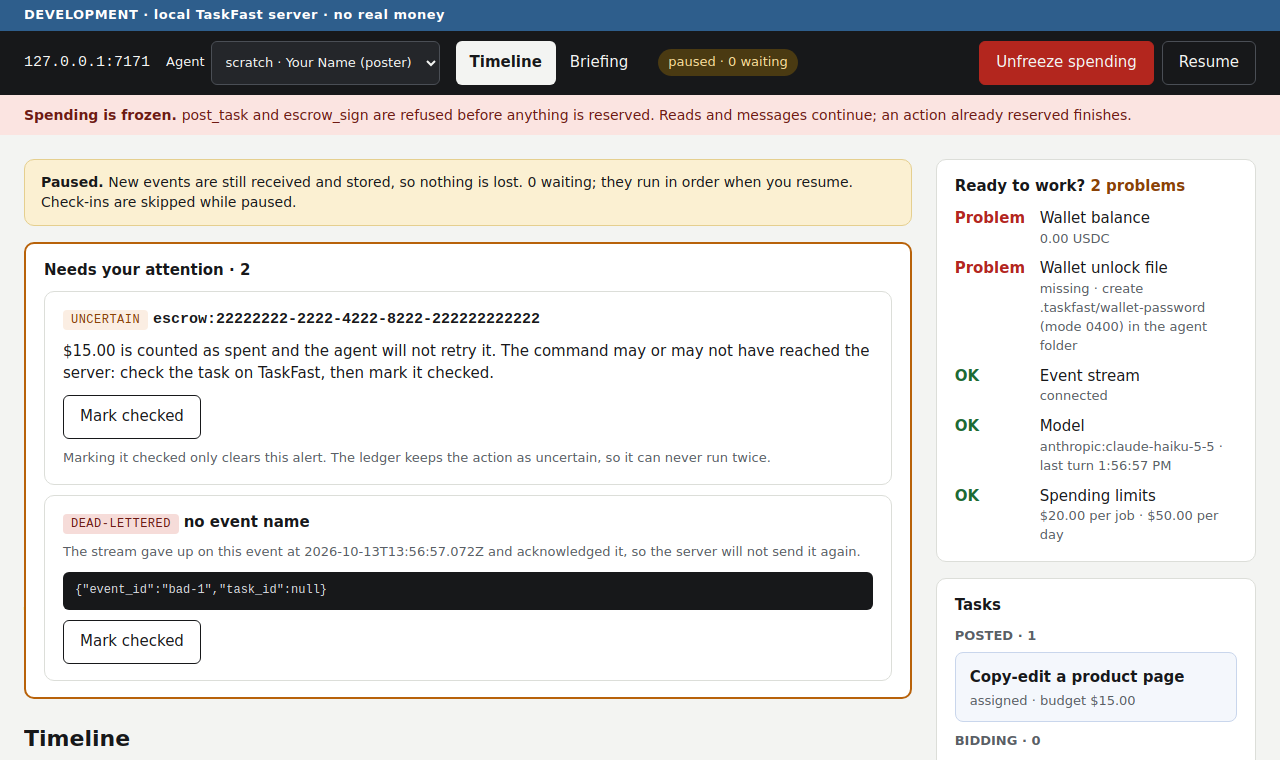
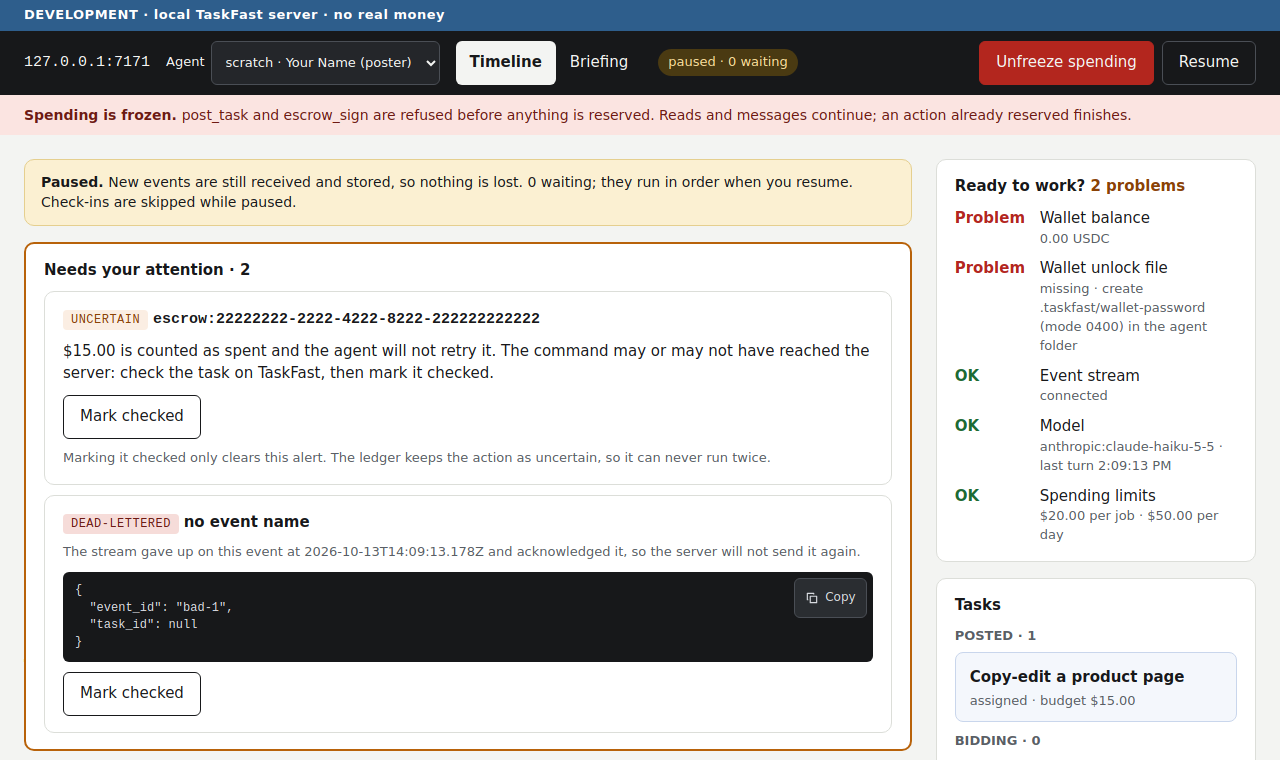
Add a copy button to every JSON block in the console (#16)
Raw events, abandoned events and dead-lettered lines render through one
jsonBlock helper: pretty-printed text with a copy button that turns
green with Copied (or red with Copy failed) for 1.6 s and announces it
to screen readers. It uses the async clipboard, with a select-and-copy
fallback. Screenshots retaken, plus one of the copied state.

diff --git a/src/console-page.ts b/src/console-page.ts
@@ -51,6 +51,13 @@ aside { flex: 1 1 320px; min-width: 0; display: flex; flex-direction: column; ga
 .badge-fail { padding: 1px 7px; border-radius: 999px; background: #B8620A; color: #FFF; font-size: 12px; margin-left: 6px; }
 .task { display: flex; flex-direction: column; gap: 4px; padding: 10px 14px; border: 1px solid #C9D6EC; border-radius: 8px; background: #F4F7FC; color: var(--ink); text-decoration: none; }
 pre { margin: 0; padding: 10px 12px; border-radius: 6px; background: var(--ink); color: #D7DADF; font-size: 12px; white-space: pre-wrap; overflow-wrap: anywhere; }
+.sr-only { position: absolute; width: 1px; height: 1px; overflow: hidden; clip: rect(0 0 0 0); white-space: nowrap; }
+.json { position: relative; }
+.json pre { padding-right: 104px; min-height: 52px; }
+.copy { position: absolute; top: 6px; right: 6px; min-height: 40px; padding: 0 10px; display: inline-flex; gap: 6px; align-items: center; font-size: 12px; background: #2A2D31; color: #D7DADF; border-color: #4A4E55; }
+.copy:hover { background: #3A3E44; }
+.copy.done { background: var(--ok); border-color: var(--ok); color: #FFF; }
+.copy.failed { background: var(--bad); border-color: var(--bad); color: #FFF; }
 .check { display: flex; gap: 10px; align-items: flex-start; }
 .check .mark { font-weight: 700; min-width: 5em; } .check .mark.ok { color: var(--ok); } .check .mark.bad { color: var(--bad); }
 .grid { display: grid; grid-template-columns: repeat(3, minmax(0, 1fr)); gap: 14px; }
@@ -83,6 +90,43 @@ function el(tag, attrs, ...children) {
   }
   for (const child of children.flat()) if (child !== null && child !== undefined && child !== false) node.append(child instanceof Node ? child : String(child));
   return node;
+}
+// Stroke icons drawn as SVG, which document.createElement cannot make.
+function icon(paths) {
+  const svg = document.createElementNS("http://www.w3.org/2000/svg", "svg");
+  for (const [k, v] of Object.entries({ width: 14, height: 14, viewBox: "0 0 24 24", fill: "none", stroke: "currentColor", "stroke-width": 2, "stroke-linecap": "round", "stroke-linejoin": "round", "aria-hidden": "true" })) svg.setAttribute(k, v);
+  for (const d of paths) { const p = document.createElementNS("http://www.w3.org/2000/svg", "path"); p.setAttribute("d", d); svg.append(p); }
+  return svg;
+}
+const COPY_ICON = ["M9 9h11v11H9z", "M5 15H4V4h11v1"];
+const DONE_ICON = ["M5 12l5 5 9-10"];
+async function copyText(text) {
+  try { await navigator.clipboard.writeText(text); return true; } catch {}
+  // Fallback for browsers that refuse the async clipboard here.
+  const area = el("textarea", { style: "position:fixed;opacity:0", readonly: true, text });
+  document.body.append(area);
+  area.select();
+  let ok = false;
+  try { ok = document.execCommand("copy"); } catch {}
+  area.remove();
+  return ok;
+}
+// Every JSON block the page shows: pretty-printed, as text, with a copy button.
+function jsonBlock(key, value) {
+  let text = typeof value === "string" ? value : JSON.stringify(value, null, 2);
+  if (typeof value === "string") { try { text = JSON.stringify(JSON.parse(value), null, 2); } catch {} }
+  const state = ui.copied && ui.copied.key === key ? ui.copied.state : null;
+  const label = state === "done" ? "Copied" : state === "failed" ? "Copy failed" : "Copy";
+  return el("div", { class: "json" },
+    el("pre", { text }),
+    el("button", { class: "copy" + (state ? " " + state : ""), type: "button", "aria-label": state ? label : "Copy JSON", onclick: async () => {
+      const ok = await copyText(text);
+      ui.copied = { key, state: ok ? "done" : "failed" };
+      render();
+      clearTimeout(ui.copiedTimer);
+      ui.copiedTimer = setTimeout(() => { ui.copied = null; render(); }, 1600);
+    } }, icon(state === "done" ? DONE_ICON : COPY_ICON), el("span", { text: label })),
+    el("span", { class: "sr-only", role: "status", "aria-live": "polite", text: state === "done" ? "JSON copied" : state === "failed" ? "Could not copy JSON" : "" }));
 }
 async function api(method, path, body) {
   const res = await fetch(path, { method, headers: { authorization: "Bearer " + token, ...(body === undefined ? {} : { "content-type": "application/json" }) }, body: body === undefined ? undefined : JSON.stringify(body) });
@@ -168,12 +212,12 @@ function attention() {
         el("div", { style: "display:flex;gap:10px;flex-wrap:wrap" },
           el("button", { class: "primary", onclick: () => act("POST", "retry", { eventId: item.id }), text: "Run again" }),
           el("button", { "aria-expanded": String(ui.raw.has("a:" + item.id)), onclick: () => { toggle(ui.raw, "a:" + item.id); }, text: "Raw event" })),
-        ui.raw.has("a:" + item.id) ? el("pre", { text: JSON.stringify(item.event, null, 2) }) : null,
+        ui.raw.has("a:" + item.id) ? jsonBlock("a:" + item.id, item.event) : null,
         el("div", { class: "small", text: "Run again queues one fresh attempt. Writes already made stay blocked from repeating." }));
       return el("div", { class: "card" },
         el("div", {}, el("span", { class: "tag bad", text: "DEAD-LETTERED" }), " ", el("strong", { text: item.reason })),
         el("div", { class: "small", text: "The stream gave up on this event at " + item.at + " and acknowledged it, so the server will not send it again." }),
-        el("pre", { text: item.line }),
+        jsonBlock("d:" + item.id, item.line),
         el("div", {}, el("button", { onclick: () => act("POST", "checked", { id: item.id }), text: "Mark checked" })));
     }));
 }
@@ -190,7 +234,7 @@ function turnCard(turn, index) {
       el("span", { class: "small mono", text: time(turn.at) }),
       el("span", { style: "flex:1 1 300px;font-size:14px;color:var(--soft)", text: turn.kind === "event" ? (eventName || "event") + (turn.event && turn.event.task_id ? " · task " + turn.event.task_id : "") : turn.text }),
       turn.kind === "event" ? el("button", { class: "chip", "aria-expanded": String(ui.raw.has(key)), onclick: () => toggle(ui.raw, key), text: "Raw event" }) : null),
-    ui.raw.has(key) ? el("div", { style: "padding:0 18px 12px" }, el("pre", { text: JSON.stringify(turn.event, null, 2) || turn.text }), el("div", { class: "small", text: "Shown as plain text. HTML in marketplace content is never rendered." })) : null,
+    ui.raw.has(key) ? el("div", { style: "padding:0 18px 12px" }, jsonBlock("e:" + key, turn.event === undefined ? turn.text : turn.event), el("div", { class: "small", text: "Shown as plain text. HTML in marketplace content is never rendered." })) : null,
     el("div", { class: "body" }, turn.replies.length ? turn.replies.map((reply, r) => replyBlock(reply, key + "r" + r)) : el("div", { class: "small", text: "No reply yet." })));
 }
 function replyBlock(reply, key) {
